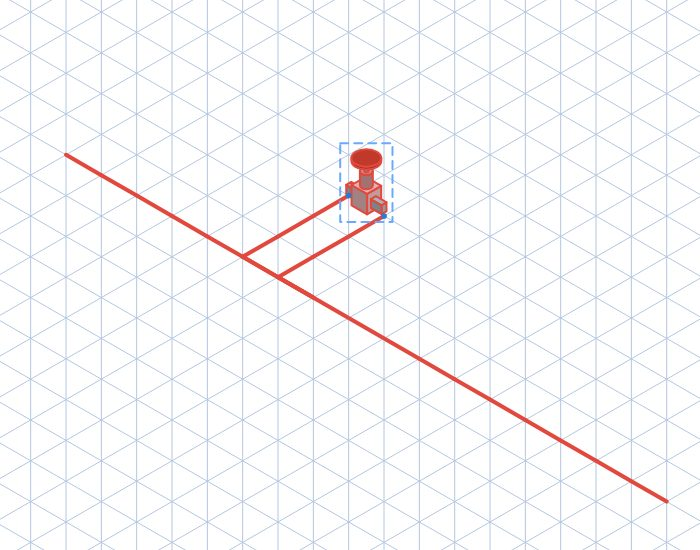
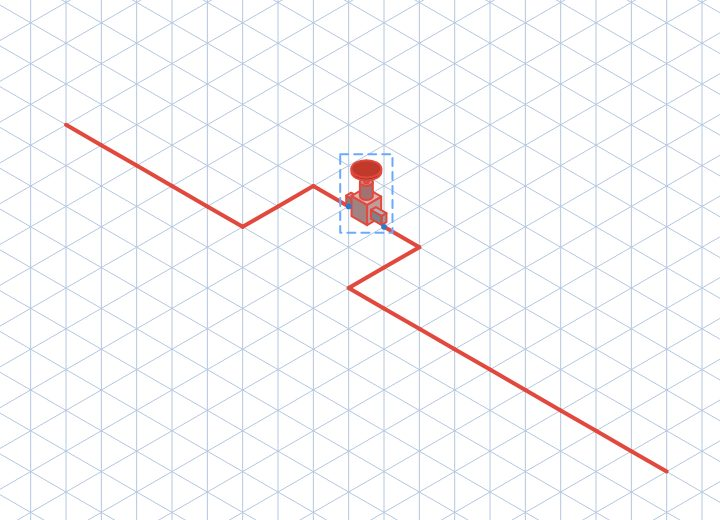
Iso : déplacement d'un objet peaufiné (entrée droite, déviation à deux coudes)
Claude-Session: https://claude.ai/code/session_0132P7fSy2K8VC3HWdnHumMj

diff --git a/index.html b/index.html
@@ -3702,20 +3702,29 @@ function majObjUI(){ const b = $("#objBar"); if (!b) return; b.hidden = !RD.obj;
   ["pointerup", "pointercancel"].forEach(t => c.addEventListener(t, ev => {
     if (mv && mv.s && !mv.snap && ev.type === "pointerup") tapElement(mv.s, ev);      /* toucher sans bouger : compte pour le double-clic (renommer) */
     if (mv && mv.fil){ if (mv.segs.length){ jonctionsAuto(mv.segs); nettoyerFils(); } else { (UNDO[inkKey()] || []).pop(); if (!mv.B || mv.B === mv.A){ RD.objKe = null; SELO.s = null; const ch = mv.surObjet || mv.filSous; if (ch && strokes().includes(ch)){ SELO.s = ch; RD.objO = ch.o || 0; tapElement(ch, ev); } } }   /* simple clic sur un symbole ou un fil, même avec l'outil Fil : on le choisit (double-clic = repère) */   /* clic sans tracer : retour à aucun outil */ mv = null; redrawInk(); majObjUI(); return; }
-    if (mv && mv.s && mv.snap && !ELEC[mv.s.k] && /^iso/.test(wbBg())){                 /* objet iso déplacé : chaque tuyau branché se refait droit, avec un coude à 90° sur la grille iso */
+    if (mv && mv.s && mv.snap && !ELEC[mv.s.k] && /^iso/.test(wbBg())){                 /* objet iso déplacé : chaque tuyau branché est refait droit sur la grille iso */
       const W = c.width, H = c.height, dpr = window.devicePixelRatio || 1, a = 34 * RD.z * 1.2 * dpr, d = a * .8660254, AX = [[d, a / 2], [-d, a / 2], [0, a]], arr = strokes();
-      const cr = (u, v) => u[0] * v[1] - u[1] * v[0];
+      const cr = (u, v) => u[0] * v[1] - u[1] * v[0], N = q => [q[0] / W, q[1] / H], P = q => [q[0] * W, q[1] * H], pres = (u, v) => Math.hypot(u[0] - v[0], u[1] - v[1]) < 2;
+      const axeDe = v => AX.slice().sort((p1, p2) => Math.abs(cr(p1, v)) / a - Math.abs(cr(p2, v)) / a)[0];
+      const tuyaux = () => arr.filter(x => x.t === "ligne" && !x.fil && x.p && x.p.length === 2);
+      const poser = (u, v, modele) => { if (pres(u, v)) return; const n = { c:modele.c, hl:false, hc:null, w:modele.w, t:"ligne", p:[N(u), N(v)] }; (decouperIso(n) || [n]).forEach(x => arr.push(x)); };
       mv.liens.forEach(([f, i, x0, y0]) => { if (!arr.includes(f)) return;
-        const M = [f.p[i][0] * W, f.p[i][1] * H], F = [f.p[1 - i][0] * W, f.p[1 - i][1] * H], v = [M[0] - F[0], M[1] - F[1]], L = Math.hypot(v[0], v[1]); if (L < 2) return;
-        if (AX.some(A => Math.abs(cr(A, v)) / (Math.hypot(A[0], A[1]) * L) < .02)) return;              /* déjà droit sur un axe iso */
-        const v0 = [x0 * W - F[0], y0 * H - F[1]], A = AX.slice().sort((p1, p2) => Math.abs(cr(p1, v0)) / Math.hypot(p1[0], p1[1]) - Math.abs(cr(p2, v0)) / Math.hypot(p2[0], p2[1]))[0];   /* l'axe d'origine du tuyau */
-        let best = null; AX.filter(B => B !== A).forEach(B => { const den = cr(A, B); if (Math.abs(den) < 1e-6) return; const t = cr(v, B) / den, sB = cr(A, v) / den, cout = Math.abs(sB) * Math.hypot(B[0], B[1]);
-          if (!best || cout < best.cout) best = { t, B, cout }; });
-        if (!best) return; const K = [F[0] + A[0] * best.t, F[1] + A[1] * best.t];
-        f.p[i] = [K[0] / W, K[1] / H];                                                                  /* le tuyau garde son axe jusqu'au coude… */
-        const n = { c:f.c, hl:false, hc:null, w:f.w, t:"ligne", p:[[K[0] / W, K[1] / H], [M[0] / W, M[1] / H]] }, seg = decouperIso(n);   /* …puis repart droit jusqu'au raccord */
-        (seg || [n]).forEach(x => arr.push(x));
-        if (Math.hypot(K[0] - F[0], K[1] - F[1]) < 2){ const j = arr.indexOf(f); if (j >= 0) arr.splice(j, 1); } });
+        const M = P(f.p[i]); let F = P(f.p[1 - i]); const M0 = [x0 * W, y0 * H], v0 = [M0[0] - F[0], M0[1] - F[1]], L0 = Math.hypot(v0[0], v0[1]); if (L0 < 2) return;
+        const A = axeDe(v0), sg = Math.sign(A[0] * v0[0] + A[1] * v0[1]) || 1, dA = [A[0] * sg, A[1] * sg];          /* le tuyau arrivait au raccord dans ce sens */
+        const v = [M[0] - F[0], M[1] - F[1]]; if (Math.abs(cr(dA, v)) < 2 && dA[0] * v[0] + dA[1] * v[1] > 0) return;   /* glissé dans l'axe : le tuyau reste droit */
+        arr.splice(arr.indexOf(f), 1);
+        const K = [M[0] - dA[0], M[1] - dA[1]];                                                          /* le dernier bout entre droit dans le raccord */
+        let fin = null;
+        for (let essai = 0; essai < 40; essai++){
+          const w = [K[0] - F[0], K[1] - F[1]]; let best = null;
+          AX.filter(B => B !== A).forEach(B => { const den = cr(dA, B); if (Math.abs(den) < 1e-6) return; const t = cr(w, B) / den, sB = cr(dA, w) / den; if (!best || Math.abs(sB) < Math.abs(best.s)) best = { t, s:sB, B }; });
+          if (best && best.t >= -.5){ fin = best; break; }
+          /* le coude tomberait en arrière : on raccourcit le tuyau d'un pas vers l'arrière */
+          const prec = tuyaux().find(x => x.p.some(q => pres(P(q), F)) && (() => { const o = P(x.p.find(q => !pres(P(q), F))); return Math.abs(cr(dA, [F[0] - o[0], F[1] - o[1]])) < 2 && dA[0] * (F[0] - o[0]) + dA[1] * (F[1] - o[1]) > 0; })());
+          if (!prec){ fin = best; break; } const o = P(prec.p.find(q => !pres(P(q), F))); arr.splice(arr.indexOf(prec), 1); F = o; }
+        if (!fin) return;
+        const P1 = [F[0] + dA[0] * Math.max(0, fin.t), F[1] + dA[1] * Math.max(0, fin.t)];
+        poser(F, P1, f); poser(P1, K, f); poser(K, M, f); });
       redrawInk();
     }
     if (mv && mv.s && mv.snap && ELEC[mv.s.k]){                                  /* symbole déplacé : ses fils restent droits (un coude s'ajoute au besoin) */

diff --git a/CLAUDE.md b/CLAUDE.md
@@ -76,7 +76,7 @@
 - **Textes (28 oct.)** : dans `.inktxt`, Entrée = nouvelle ligne (la case grandit), Ctrl+Entrée ou toucher à côté = terminer, Échap = annuler. une case `.inktxt` ouverte est terminée (`blur`) dès qu'on touche le tableau avec un autre outil, qu'on touche un texte existant ou qu'on quitte l'outil Texte (`refreshTools`) — sinon elle gardait le clavier et Suppr / Ctrl+Z ne marchaient plus. Sans outil, toucher un texte (`texteSous`) passe à l'outil Texte et le choisit (`SEL.s`); la sélection multiple laisse passer ce toucher.
 - **Crayon** : le bouton crayon `#penCol` (icône crayon, pointe à la couleur `--pc`) active/désactive le crayon (`RD.crayonOff`; l'activer ouvre `#popCol`). Épaisseur = glissière 1–40 (`RD.wPx`, `localStorage.penLargeur`, `majLargeur`); l'ancien bouton `#penW` (3 grosseurs) est retiré. Le tracé (`RD.shape`) se choisit dans la rangée « Tracé » du menu (`.ptrace`); `#penS` est caché (gardé pour `refreshTools`).
 - **Ouverture du tableau blanc** (`toggleWb`) : classe `#reader.wbon` qui cache la barre du livre `#tb` (on sort par Retour; le ✕ `#penX` est caché depuis le 28 oct. : Jeremy veut une barre sans ✕); toujours aucun outil (`RD.crayonOff = true`, objets/gomme/texte éteints). Dans cet état, toucher une forme ou un objet ouvre la palette Objets et le choisit (`choisirAutre`, glisser = déplacer).
-- **Déplacer un objet iso** : au relâchement (gestionnaire des objets, avant le cas électrique), chaque bout de tuyau branché (`mv.liens`) qui n'est plus sur un axe iso est refait : le tuyau garde son axe d'origine jusqu'à un coude `K`, puis un nouveau tuyau (découpé par `decouperIso`) va droit au raccord sur l'axe qui donne le plus court second bout.
+- **Déplacer un objet iso** : au relâchement (gestionnaire des objets, avant le cas électrique), pour chaque bout de tuyau branché (`mv.liens`) : s'il est glissé dans son axe, rien; sinon le bout est remplacé par F → P1 (axe d'origine) → K (autre axe iso, le plus court) → M (dernier pas dans l'axe d'origine : le tuyau entre droit dans le raccord); si le coude tomberait en arrière, les pas précédents du tuyau (même axe) sont enlevés un à un. Les nouveaux bouts passent par `decouperIso`.
 - **Croisements en iso** : essayé puis **retiré à la demande de Jeremy** (trop de bogues). La fonction `croisementsIso` reste dans le code mais n'est plus appelée; ne pas la remettre sans qu'il le demande.
 - **Un dessin par fond** : `inkKey()` du tableau blanc = `livre|wbN` (fond blanc, clé d'avant) ou `livre|wbN:fond`; changer de fond (`wbFondSuivant`, onglets Iso/Électricité) appelle `apresFond(ancienneClé, nom)` qui offre « Apporter le dessin ici » (`#fondToast`, garde le fond d'origine si on passe plusieurs fonds de suite). Toujours régler le fond **avant** d'écrire dans `INKS[inkKey()]`.
 - **Tableau blanc / crayon** : traits normalisés dans `INKS[inkKey()]`, `REFS`, `recalerWb()`; pendant un trait, ne jamais appeler `redrawInk()` à chaque mouvement (trop lent) : trait libre dessiné par bouts (`dessinerEnCours`), formes et surligneur sur une copie `fond`, gomme via `redrawBientot()` (une fois par image); fonds blanc/quadrillé/iso/…;
